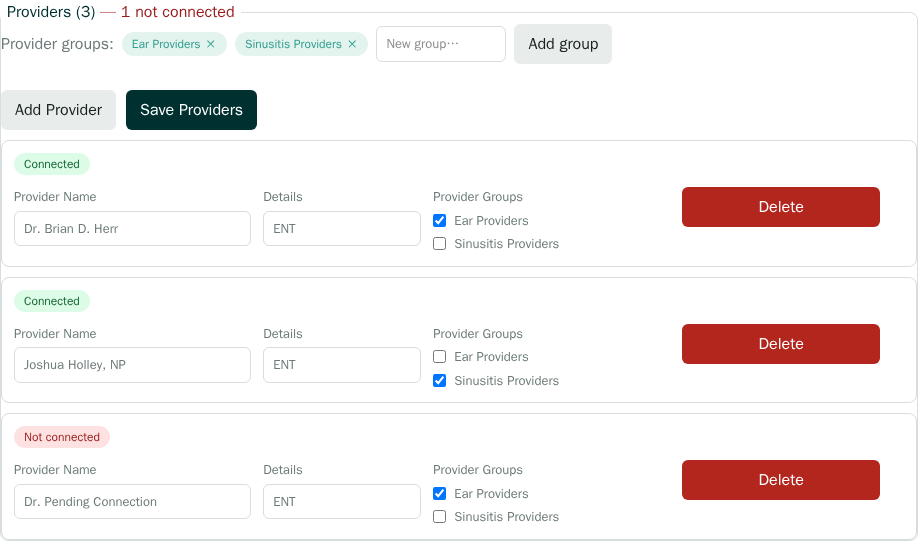
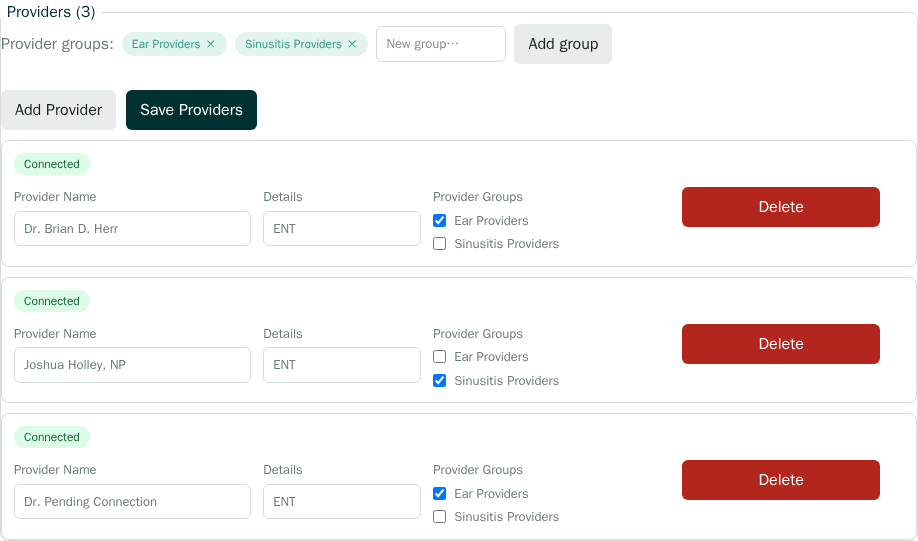
deploy: petsinc/org-apps@1dbc9a3d9a1635905a6a617325bb8b295efbc33f

Changed region(s): [[0.0, 0.7689, 0.122, 0.8281], [0.122, 0.0, 0.2745, 0.0296]]

diff --git a/pr-181/referral-app-demo/index.html b/pr-181/referral-app-demo/index.html
@@ -34,6 +34,10 @@
 <div class="variants"><img class="variant" data-variant="" loading="lazy" src="referral-app-demo/login.png" alt="referral-app-demo/login"></div></section>
 <section class="shot"><h2>referral-app-demo/settings</h2>
 <div class="variants"><img class="variant" data-variant="" loading="lazy" src="referral-app-demo/settings.png" alt="referral-app-demo/settings"></div></section>
+<section class="shot"><h2>referral-app-demo/settings-empty</h2>
+<div class="variants"><img class="variant" data-variant="" loading="lazy" src="referral-app-demo/settings-empty.png" alt="referral-app-demo/settings-empty"></div></section>
+<section class="shot"><h2>referral-app-demo/settings-provider-connected</h2>
+<div class="variants"><img class="variant" data-variant="" loading="lazy" src="referral-app-demo/settings-provider-connected.png" alt="referral-app-demo/settings-provider-connected"></div></section>
 <section class="shot"><h2>referral-app-demo/settings-providers</h2>
 <div class="variants"><img class="variant" data-variant="" loading="lazy" src="referral-app-demo/settings-providers.png" alt="referral-app-demo/settings-providers"></div></section>
 <section class="shot"><h2>referral-app-demo/shell-nav</h2>
